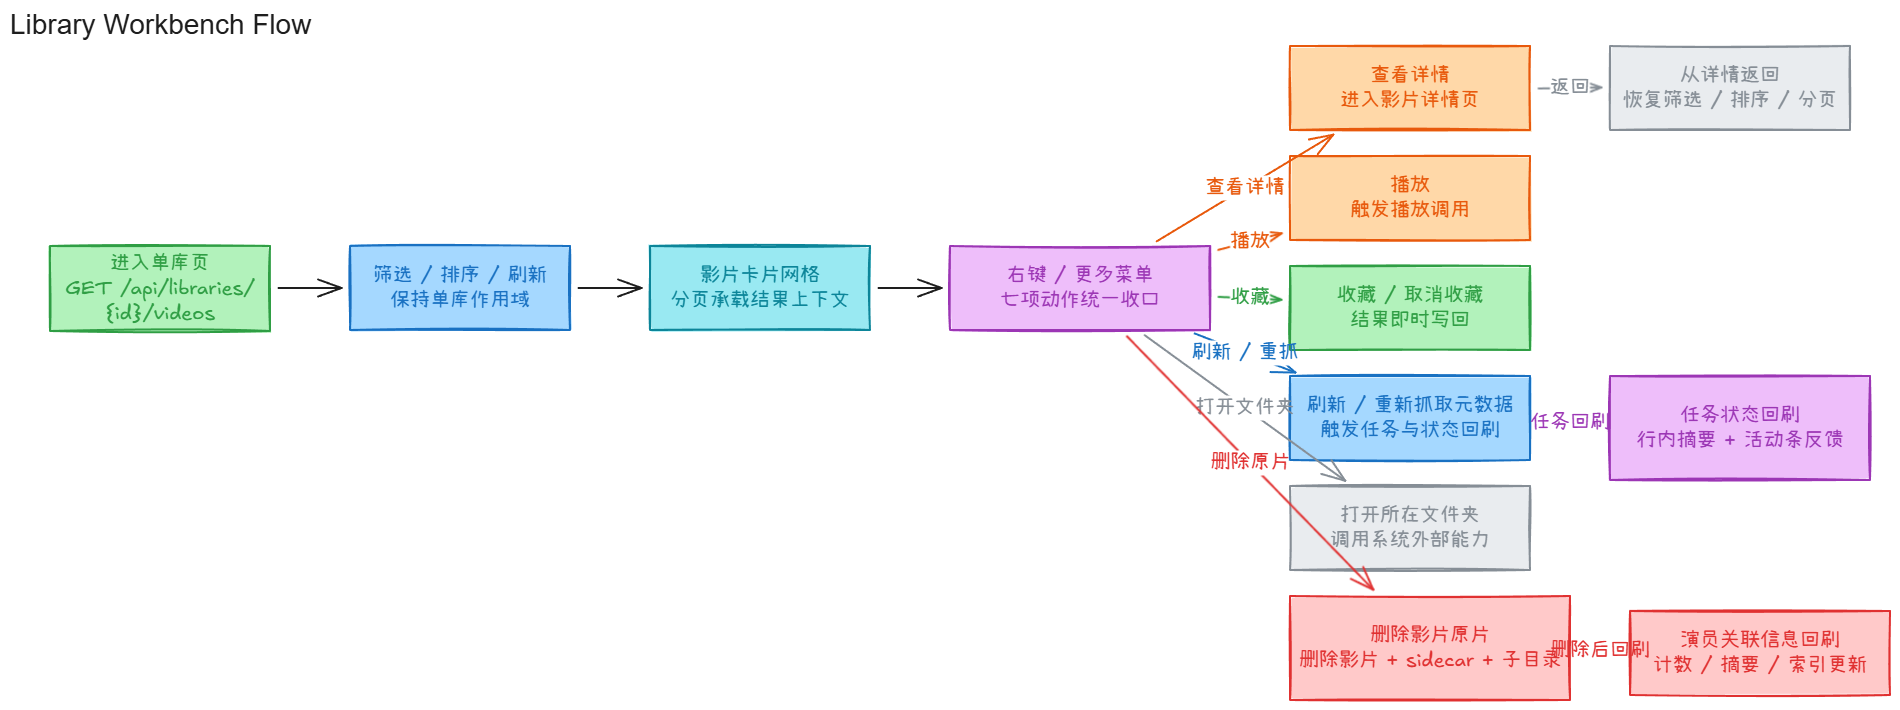
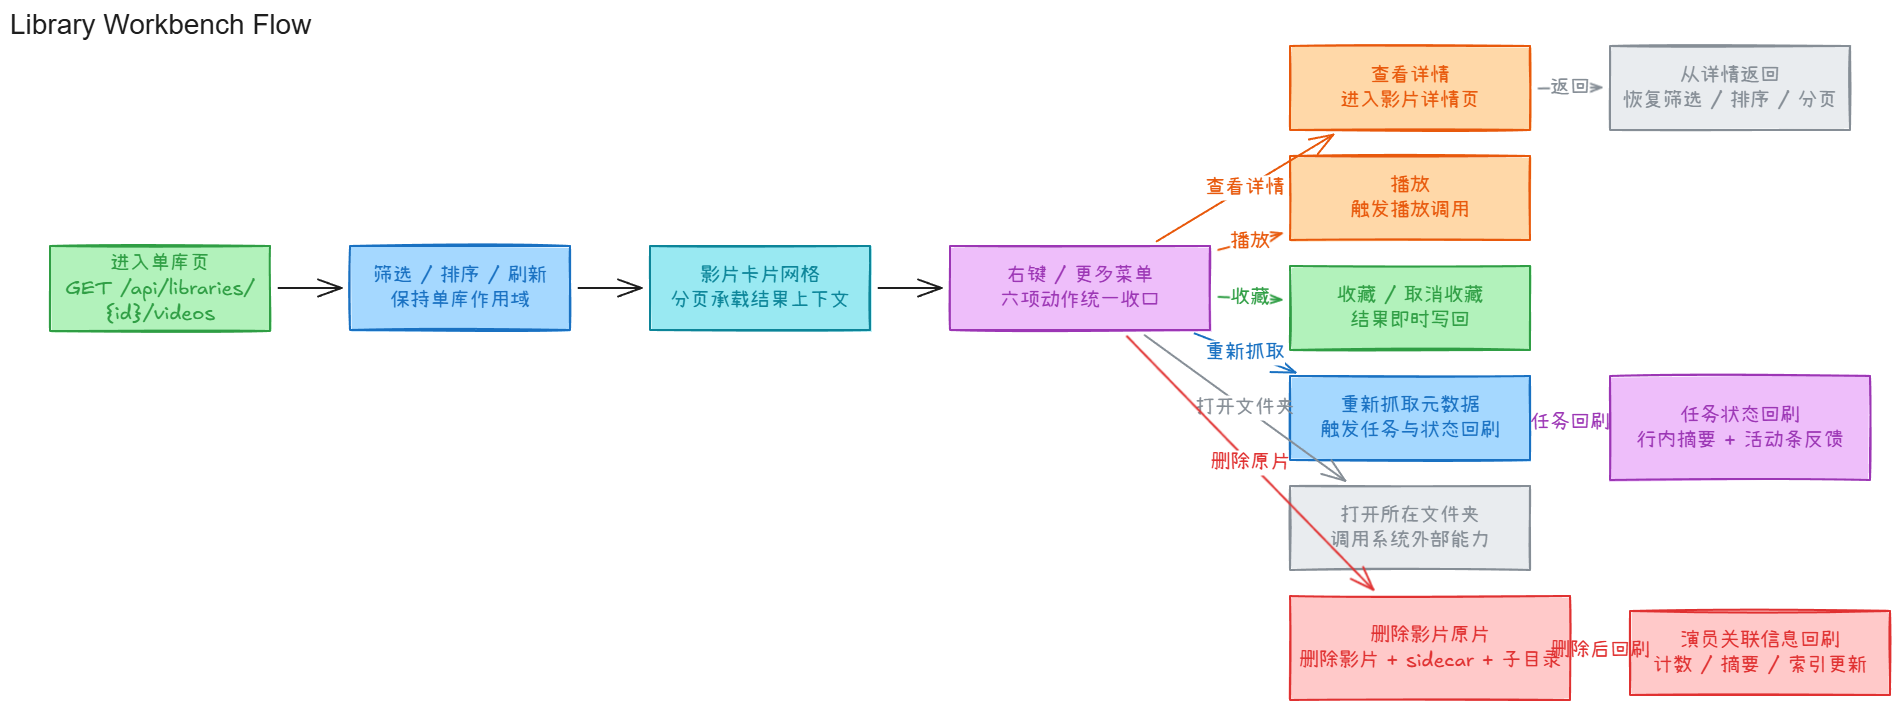
docs: refine video context menu spec

diff --git a/doc/UI/new/dialogs/video-context-menu.md b/doc/UI/new/dialogs/video-context-menu.md
@@ -4,7 +4,7 @@
 
 - `Video Context Menu` 是影片卡片的统一上下文动作菜单。
 - 它负责把右键点击和卡片 `更多` 按钮收口到同一套轻量动作入口。
-- 菜单视觉采用纯列表样式，不显示标题栏和分组头。
+- 菜单视觉采用白色背景的轻量浮层列表样式，不显示标题栏和分组头。
 
 ## 页面范围
 
@@ -12,7 +12,6 @@
   - 播放当前影片
   - 进入影片详情页
   - 收藏 / 取消收藏
-  - 刷新元数据
   - 重新抓取元数据
   - 打开所在文件夹
   - 删除影片原片
@@ -32,8 +31,8 @@
   - 影片详情路由
 - 收藏动作：
   - 收藏状态写回接口
-- 刷新 / 重新抓取动作：
-  - 元数据刷新与重抓任务接口
+- 重新抓取动作：
+  - 元数据重抓任务接口
 - 打开文件夹动作：
   - Electron shell 打开本地路径能力
 - 删除影片原片动作：
@@ -50,7 +49,6 @@
   - `播放`
   - `查看详情`
   - `收藏 / 取消收藏`
-  - `刷新元数据`
   - `重新抓取元数据`
   - `打开所在文件夹`
   - `删除影片原片`
@@ -64,7 +62,6 @@
 | 播放 | 菜单项 | 是 | 触发播放 | 当前影片 | 不离开当前结果页 |
 | 查看详情 | 菜单项 | 是 | 进入详情页 | 当前影片 | 保留来源页上下文 |
 | 收藏 / 取消收藏 | 菜单项 | 是 | 切换收藏状态 | 当前影片收藏态 | 文案跟随状态切换 |
-| 刷新元数据 | 菜单项 | 是 | 刷新当前影片元数据 | 当前影片 | 触发状态回刷 |
 | 重新抓取元数据 | 菜单项 | 是 | 重新发起抓取 | 当前影片 | 触发状态回刷 |
 | 打开所在文件夹 | 菜单项 | 是 | 打开影片目录 | 当前影片路径 | 调用系统外部能力 |
 | 删除影片原片 | 危险菜单项 | 是 | 删除影片目录内容并回刷关联数据 | 当前影片路径 / sidecar / 演员索引 | 红色文本，无二次确认 |
@@ -76,7 +73,7 @@
 - 点击任意菜单项后立即关闭菜单，再执行对应动作。
 - `查看详情` 进入详情页时，必须保留来源页的筛选、排序和分页上下文。
 - `收藏 / 取消收藏` 成功后，需要即时更新当前卡片和当前结果集状态。
-- `刷新元数据` 与 `重新抓取元数据` 触发后，需要把任务状态回刷到当前页行内摘要或活动条。
+- `重新抓取元数据` 触发后，需要把任务状态回刷到当前页行内摘要或活动条。
 - `打开所在文件夹` 属于外部动作，不改变当前页面内容区状态。
 - `删除影片原片` 不做二次确认，点击后直接执行删除链路。
 - `删除影片原片` 的删除范围固定为：
@@ -97,7 +94,7 @@
 
 ### Open
 
-- 展开菜单并显示 7 个固定动作。
+- 展开菜单并显示 6 个固定动作。
 
 ### Favorite On
 
@@ -109,7 +106,7 @@
 
 ### Task Pending
 
-- 当前影片已有刷新或重抓任务进行中时，对应动作可禁用或展示 pending 反馈。
+- 当前影片已有重抓任务进行中时，对应动作可禁用或展示 pending 反馈。
 
 ### Delete Pending
 
@@ -118,7 +115,7 @@
 ## 性能与体验约束
 
 - 所有影片结果页优先复用同一套上下文菜单规则，不再为不同页面分叉动作集合。
-- 第一轮只保留这 7 项，不新增二级菜单和更多低频动作。
+- 第一轮只保留这 6 项，不新增二级菜单和更多低频动作。
 - 菜单打开与关闭应保持轻量，不引入额外页面跳闪。
 - 菜单项文案保持短句，避免在浮层里加入说明文本。
 - 危险项只通过红色文本强调，不再额外弹出确认框。
@@ -129,7 +126,7 @@
 - 卡片 `更多` 按钮能打开同一套菜单。
 - 菜单项顺序固定且与规格一致。
 - `收藏 / 取消收藏` 能即时更新状态。
-- `刷新元数据` 与 `重新抓取元数据` 能触发任务反馈回刷。
+- `重新抓取元数据` 能触发任务反馈回刷。
 - `查看详情` 进入详情页后，返回能恢复原结果页上下文。
 - `打开所在文件夹` 能正常调用系统打开目录。
 - `删除影片原片` 会删除影片、sidecar、专属子目录，并回刷演员关联信息。

diff --git a/doc/UI/new/page-index.md b/doc/UI/new/page-index.md
@@ -28,7 +28,7 @@
 | --- | --- | --- | --- |
 | `create-edit-library-dialog` | `dialogs/create-edit-library-dialog.png` | `dialogs/create-edit-library-dialog.md` | 新建/编辑媒体库弹层，统一库名与扫描目录输入。 |
 | `delete-library-dialog` | `dialogs/delete-library-dialog.png` | `dialogs/delete-library-dialog.md` | 删除媒体库确认弹层，显示影响范围并执行二次确认。 |
-| `video-context-menu` | `dialogs/video-context-menu.png` | `dialogs/video-context-menu.md` | 影片卡片右键与更多按钮共用动作菜单，固定收口 7 个高频动作，含删除原片危险项。 |
+| `video-context-menu` | `dialogs/video-context-menu.png` | `dialogs/video-context-menu.md` | 影片卡片右键与更多按钮共用动作菜单，固定收口 6 个高频动作，含删除原片危险项。 |
 | `shared-components` | `shared/shared-components.png` | `shared/shared-components.md` | 共享组件总览，统一影片卡片、摘要条、分页、状态和通用弹层语义。 |
 
 ## 流程图索引
